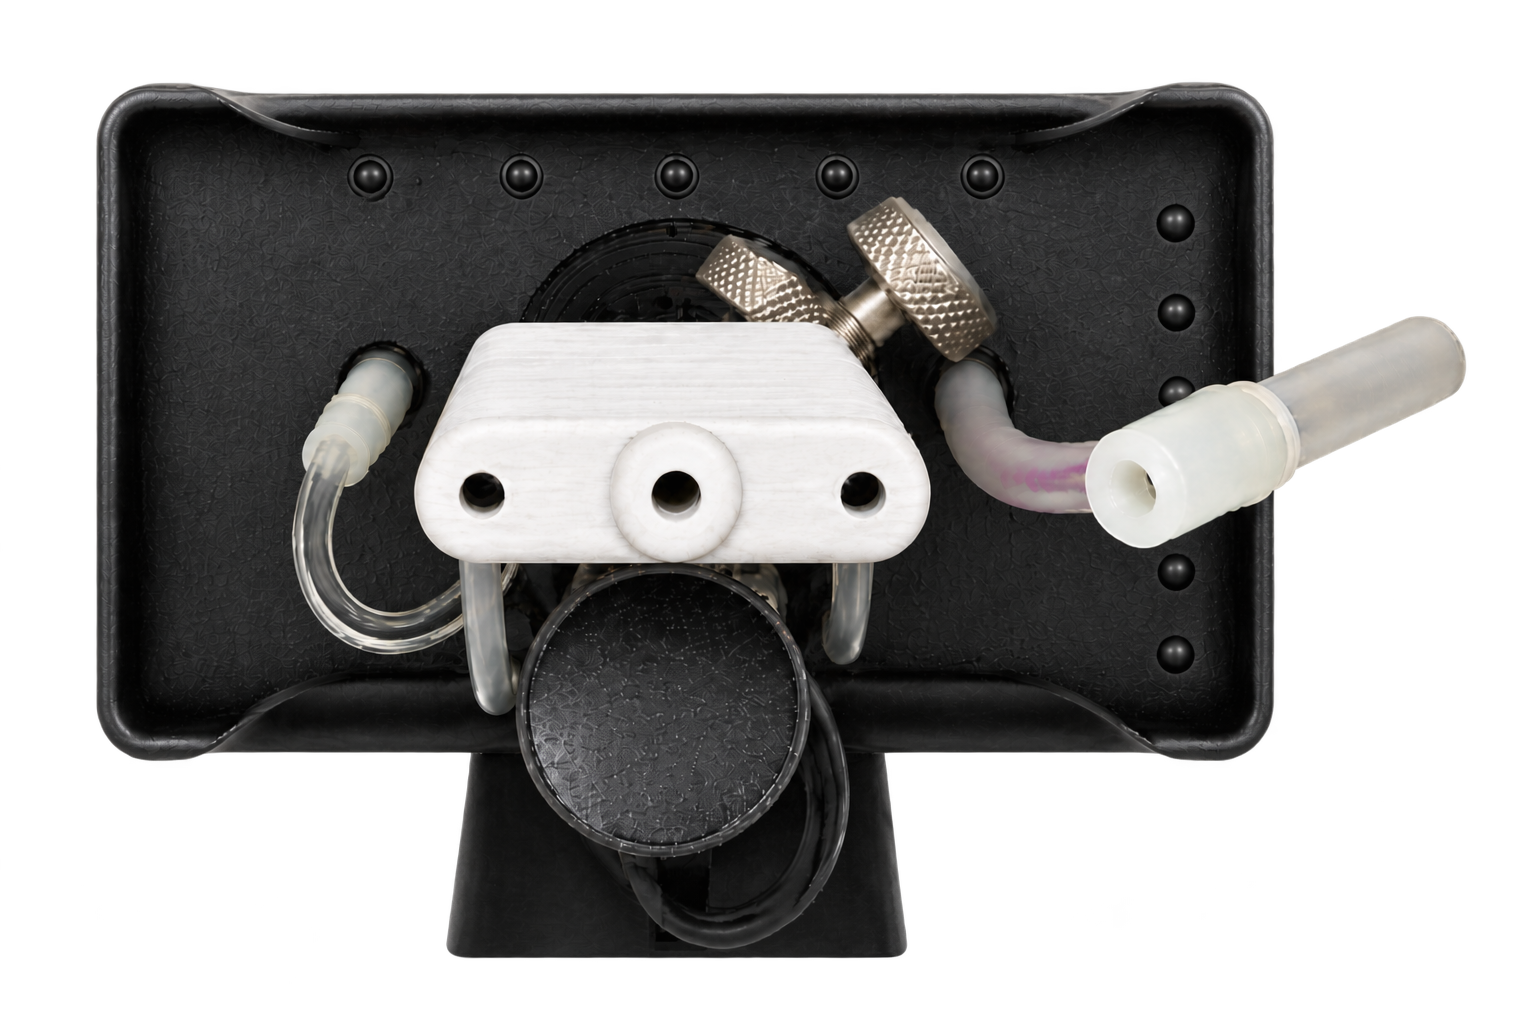
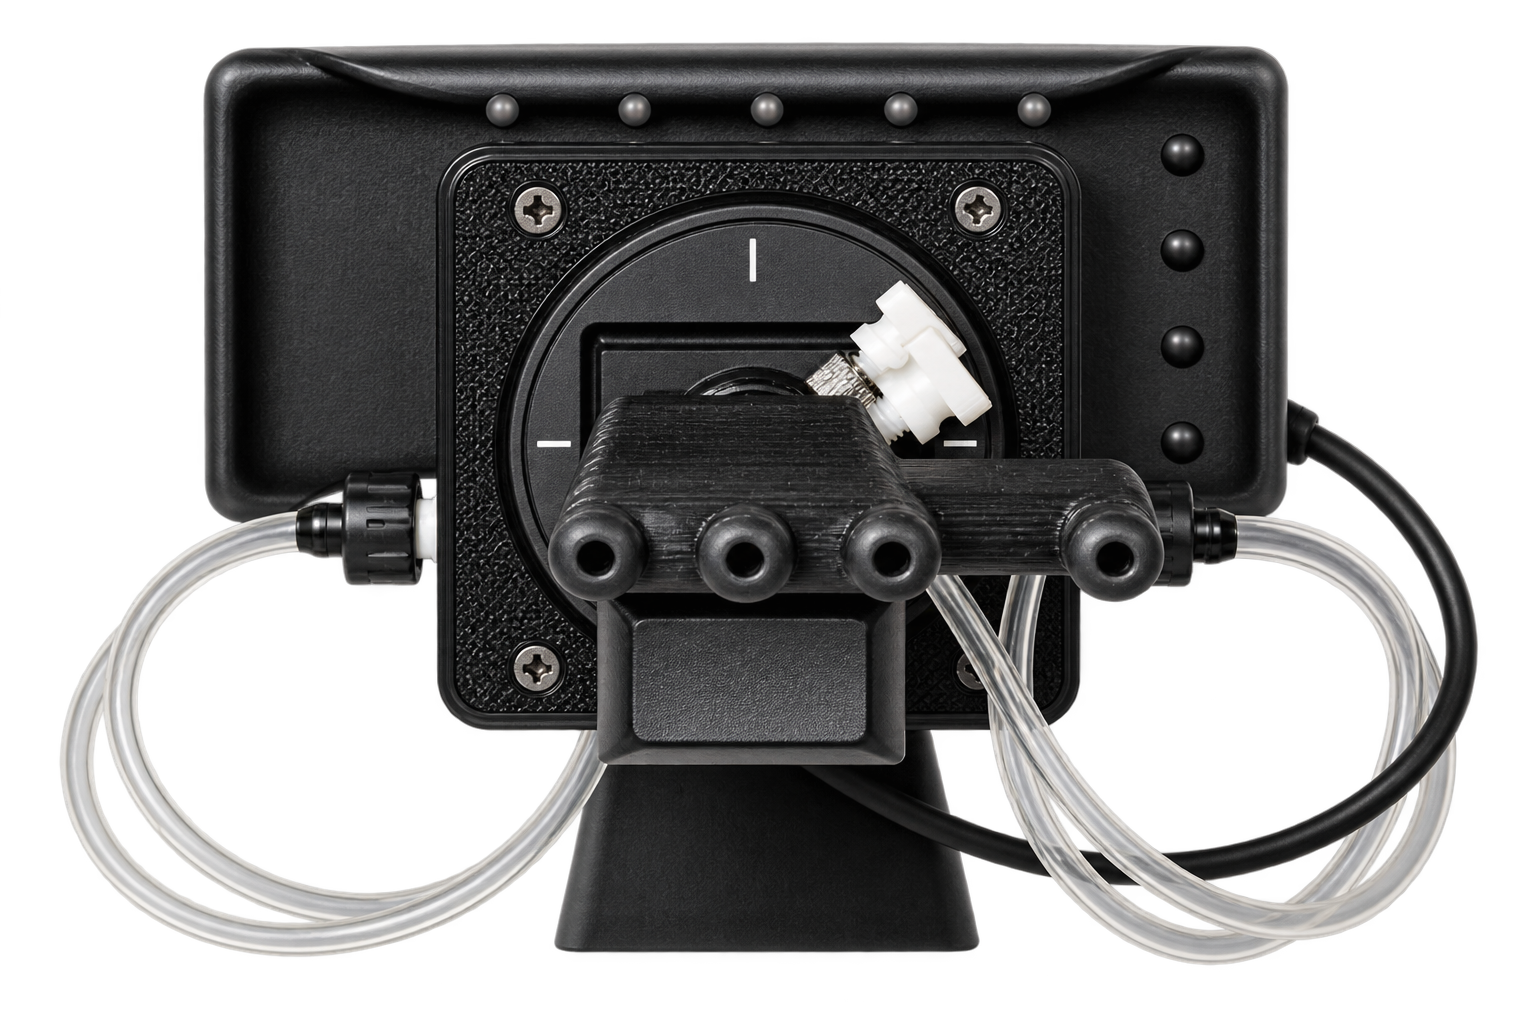
Give the FPS and the Original their own photos
- The FPS asset was a byte copy of the classic photo, so picking FPS changed nothing
- Each model's hotspots are measured on its own file now
- Singleton width set so its photo renders the same height as the FPS

diff --git a/src/QuadStick.App/DeviceDiagram.cs b/src/QuadStick.App/DeviceDiagram.cs
@@ -83,15 +83,15 @@ sealed record DeviceDiagram(
     // Every number below was measured off the asset named beside it, as a
     // fraction of that file. Replacing a photo means measuring them again;
     // DeviceHotspotTests pins each file's pixel size so a swap fails loudly
-    // instead of quietly pointing at the wrong hole.
+    // instead of quietly pointing at the wrong part.
     static readonly PixelSize Catalog2048 = new(2048, 2048);
 
     // The whole file, for a photo already framed on the device.
     static readonly Rect Whole = new(0, 0, 1, 1);
 
-    // The FPS photo is framed on the device already, so it is shown whole, and
-    // its hotspots are the ones measured on it before this layer existed: the
-    // same points, written as fractions instead of stage coordinates.
+    // The FPS photo is framed on the device already, so it is shown whole.
+    // The points are the centers of the three mouthpiece bores, the side-tube
+    // bore, the joystick cap, and the lip sensor visible in this photo.
     static readonly DeviceDiagram FpsDiagram = new(
         QsModel.FPS,
         "avares://QuadStickConfigManager/Assets/QuadStickFPS.png",
@@ -100,38 +100,49 @@ sealed record DeviceDiagram(
         PhotoX: 175, PhotoY: 132, PhotoW: 560,
         Hotspots: new[]
         {
+            new Hotspot("mp_left", 0, false, 0.3841, 0.5440),
+            new Hotspot("mp_center", 230, false, 0.4824, 0.5440),
+            new Hotspot("mp_right", 460, false, 0.5801, 0.5440),
+            new Hotspot("side", 690, false, 0.7266, 0.5450),   // the bore of the side tube, not its body
+            new Hotspot("joystick", 245, true, 0.3600, 0.5700), // lower-left edge of the left mouthpiece hole
+            new Hotspot("lip", 475, true, 0.4883, 0.6770),     // the rectangular lip sensor below it
+        },
+        Lights: new ModeLightRow(0.3275, 0.0862, 0.1064),
+        Zones: FullZones);
+
+    // The Original and FPS have the same inputs (FW 2373 has no occurrence of
+    // either model name, and input_keywords.h is one flat table with no model
+    // dimension), but they are distinct physical products and must show their
+    // own photos. Keep the FPS geometry for the shared layout while binding
+    // the Original to the photo that was previously in the FPS asset slot.
+    static readonly DeviceDiagram OriginalDiagram = FpsDiagram with
+    {
+        Model = QsModel.Original,
+        Asset = "avares://QuadStickConfigManager/Assets/QuadStickOriginal.png",
+        Hotspots = new[]
+        {
             new Hotspot("mp_left", 0, false, 0.3136, 0.4778),
             new Hotspot("mp_center", 230, false, 0.4386, 0.4778),
             new Hotspot("mp_right", 460, false, 0.5614, 0.4778),
-            new Hotspot("side", 690, false, 0.7432, 0.4710),   // the bore of the side tube, not its body
-            new Hotspot("joystick", 245, true, 0.3114, 0.5768), // the left arch of the gimbal, clear of the lip disc
+            new Hotspot("side", 690, false, 0.7432, 0.4710),
+            new Hotspot("joystick", 245, true, 0.3114, 0.5768),
             new Hotspot("lip", 475, true, 0.4295, 0.6894),
         },
-        // The domes' paired specular glints give the centre of each, and a line
-        // fitted through the five gives the spacing. None is lit in the photo;
-        // the app draws its own.
-        Lights: new ModeLightRow(0.2407, 0.1000, 0.1729),
-        Zones: FullZones);
-
-    // The Original is the FPS's picture and the FPS's callouts, on purpose.
-    // The two take the same inputs (FW 2373 has no occurrence of either model
-    // name, and input_keywords.h is one flat table with no model dimension),
-    // and they carry the same parts in the same places. The difference is
-    // joystick precision, which is not something a diagram can show. Giving
-    // the Original a second photo of the same layout bought nothing and cost
-    // a worse photo.
-    static readonly DeviceDiagram OriginalDiagram = FpsDiagram with { Model = QsModel.Original };
+        Lights = new ModeLightRow(0.2407, 0.1000, 0.1729)
+    };
 
     // Two parts, so two callouts, side by side in the top band. Nothing is
-    // pinned below, so the whole lower half of the stage goes to the photo:
-    // a Singleton drawn at the width a six-callout model needs is a postage
-    // stamp with two labels floating around it.
+    // pinned below, so the whole lower half of the stage goes to the photo.
+    // Keep the rendered photo height aligned with FPS. The Singleton asset's
+    // crop is taller, so matching FPS's width would make this stage too tall
+    // and force an unnecessary scrollbar. The narrower width below preserves
+    // the asset's aspect ratio while keeping both model views equally high.
     static readonly DeviceDiagram SingletonDiagram = new(
         QsModel.Singleton,
         "avares://QuadStickConfigManager/Assets/QuadStickSingleton.png",
         Catalog2048,
         Source: new Rect(0.2124, 0.1738, 0.5747, 0.6523),
-        PhotoX: 185, PhotoY: 132, PhotoW: 540,
+        PhotoX: 290.54, PhotoY: 132, PhotoW: 328.92,
         Hotspots: new[]
         {
             // The left arch of the gimbal, not its centre: the mouthpiece tube

diff --git a/tests/QuadStick.App.Tests/DeviceHotspotTests.cs b/tests/QuadStick.App.Tests/DeviceHotspotTests.cs
@@ -132,9 +132,8 @@ public class DeviceHotspotTests
           + "changed, measure its hotspots and mode lights off the new one again.");
     }
 
-    // The FPS and the Original take the same inputs and carry the same parts in
-    // the same places, so they share one picture on purpose. The Singleton does
-    // not, and showing it either of theirs is the bug this layer exists to stop.
+    // The FPS and Original take the same inputs, but each photo has its own
+    // measured points. The Singleton does not share either photo.
     [Fact]
     public void The_singleton_never_borrows_another_models_picture()
     {
@@ -142,20 +141,33 @@ public class DeviceHotspotTests
         var original = DeviceDiagram.For(QsModel.Original);
         var singleton = DeviceDiagram.For(QsModel.Singleton);
 
-        Assert.Equal(fps.Asset, original.Asset);
-        Assert.Equal(fps.Hotspots, original.Hotspots);
+        Assert.NotEqual(fps.Asset, original.Asset);
+        Assert.EndsWith("QuadStickFPS.png", fps.Asset, StringComparison.Ordinal);
+        Assert.EndsWith("QuadStickOriginal.png", original.Asset, StringComparison.Ordinal);
+        Assert.NotEqual(fps.Hotspots, original.Hotspots);
         Assert.NotEqual(fps.Asset, singleton.Asset);
         Assert.EndsWith("QuadStickSingleton.png", singleton.Asset, StringComparison.Ordinal);
     }
 
-    // The two that share a picture have to agree on every number on it, or one
-    // of them is pointing at holes measured for the other.
+    // Each model's photo has its own measurements. A mismatch here means a
+    // photo was changed without recalibrating its pointers.
     [Fact]
-    public void The_shared_picture_is_shared_whole()
+    public void Each_model_has_distinct_hotspot_measurements()
     {
         var fps = DeviceDiagram.For(QsModel.FPS);
         var original = DeviceDiagram.For(QsModel.Original);
-        Assert.Equal(fps, original with { Model = QsModel.FPS });
+        Assert.NotEqual(fps.Hotspots, original.Hotspots);
+        Assert.NotEqual(fps.Lights, original.Lights);
+    }
+
+    [Fact]
+    public void Singleton_photo_matches_fps_height_without_growing_the_stage()
+    {
+        var fps = DeviceDiagram.For(QsModel.FPS);
+        var singleton = DeviceDiagram.For(QsModel.Singleton);
+
+        Assert.Equal(fps.PhotoH, singleton.PhotoH, 1);
+        Assert.Equal(fps.PhotoX + fps.PhotoW / 2, singleton.PhotoX + singleton.PhotoW / 2, 1);
     }
 
     [AvaloniaFact]
